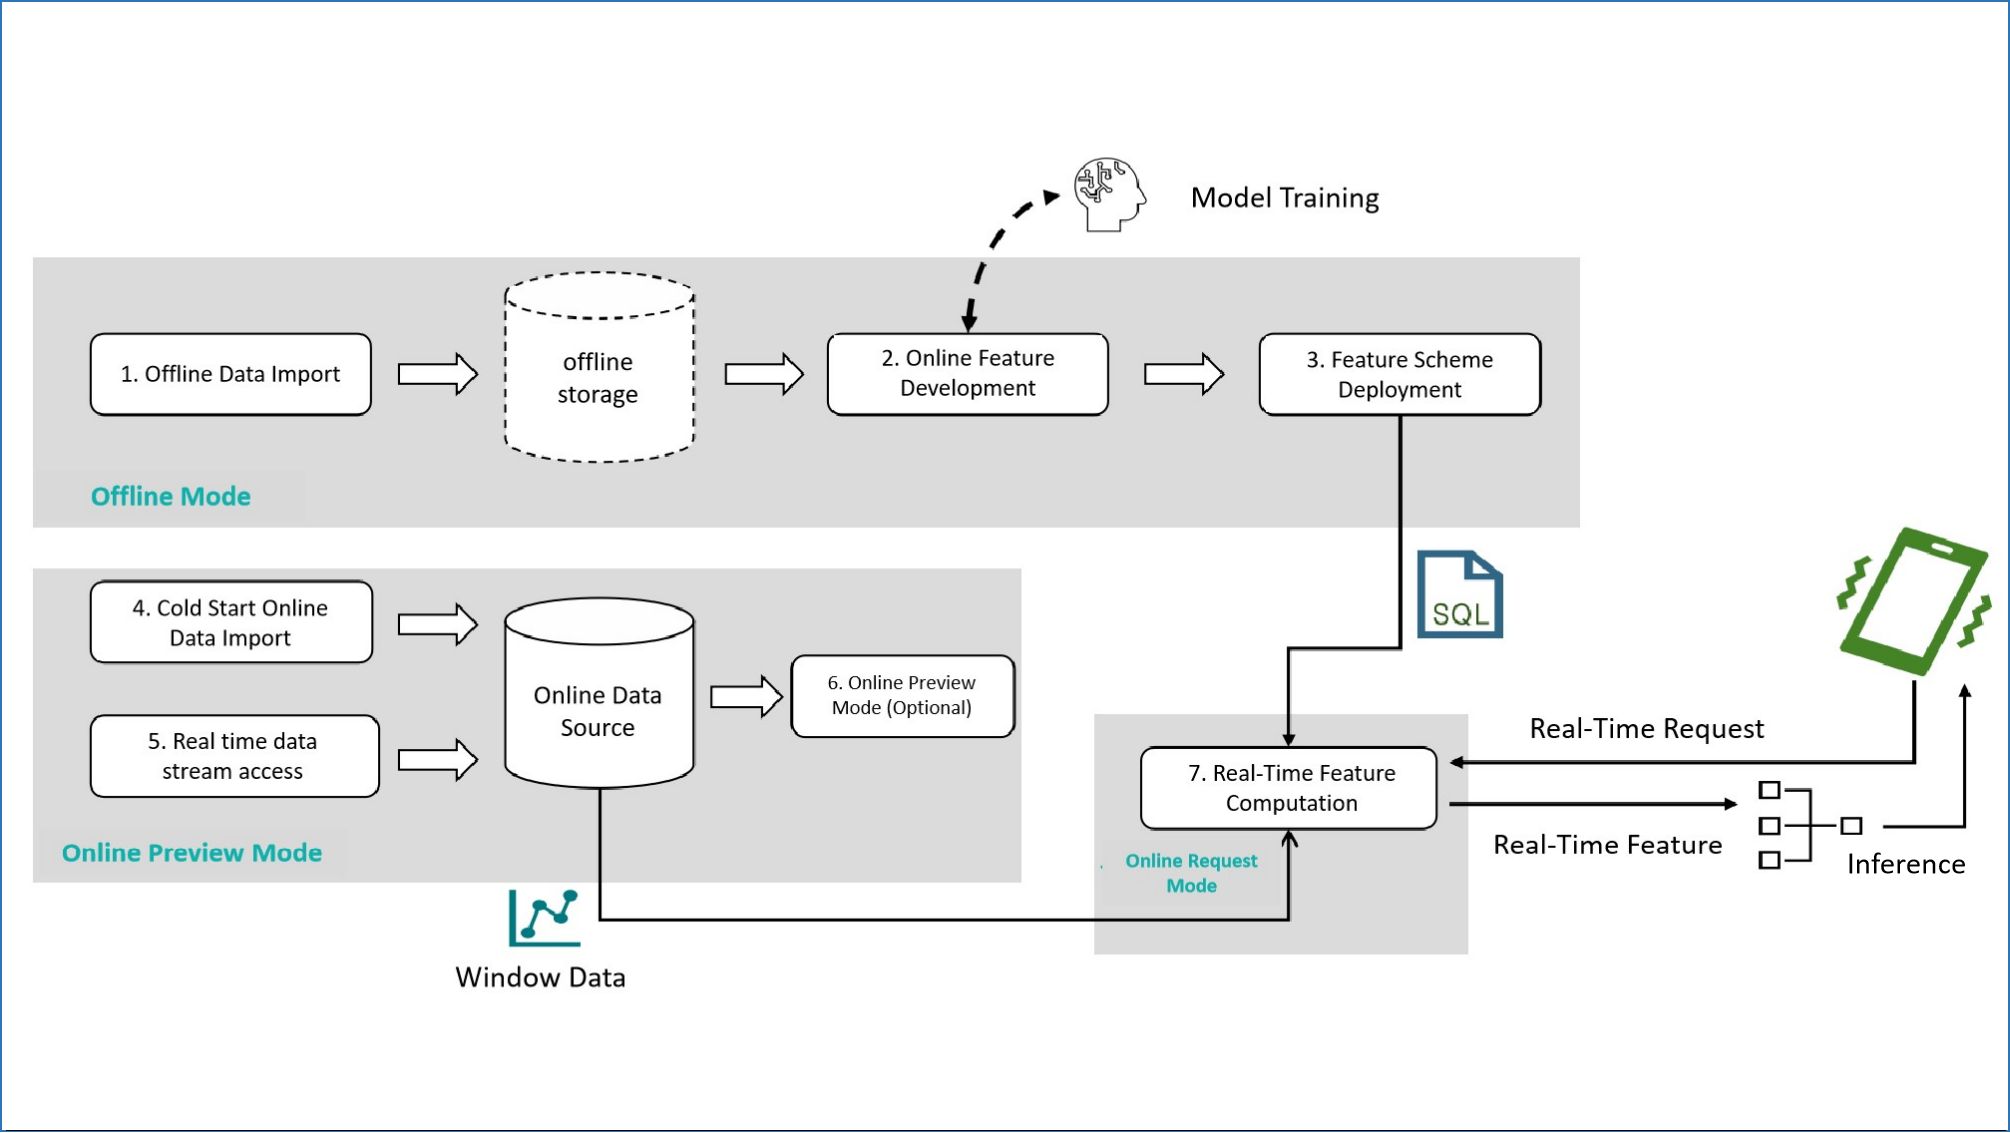
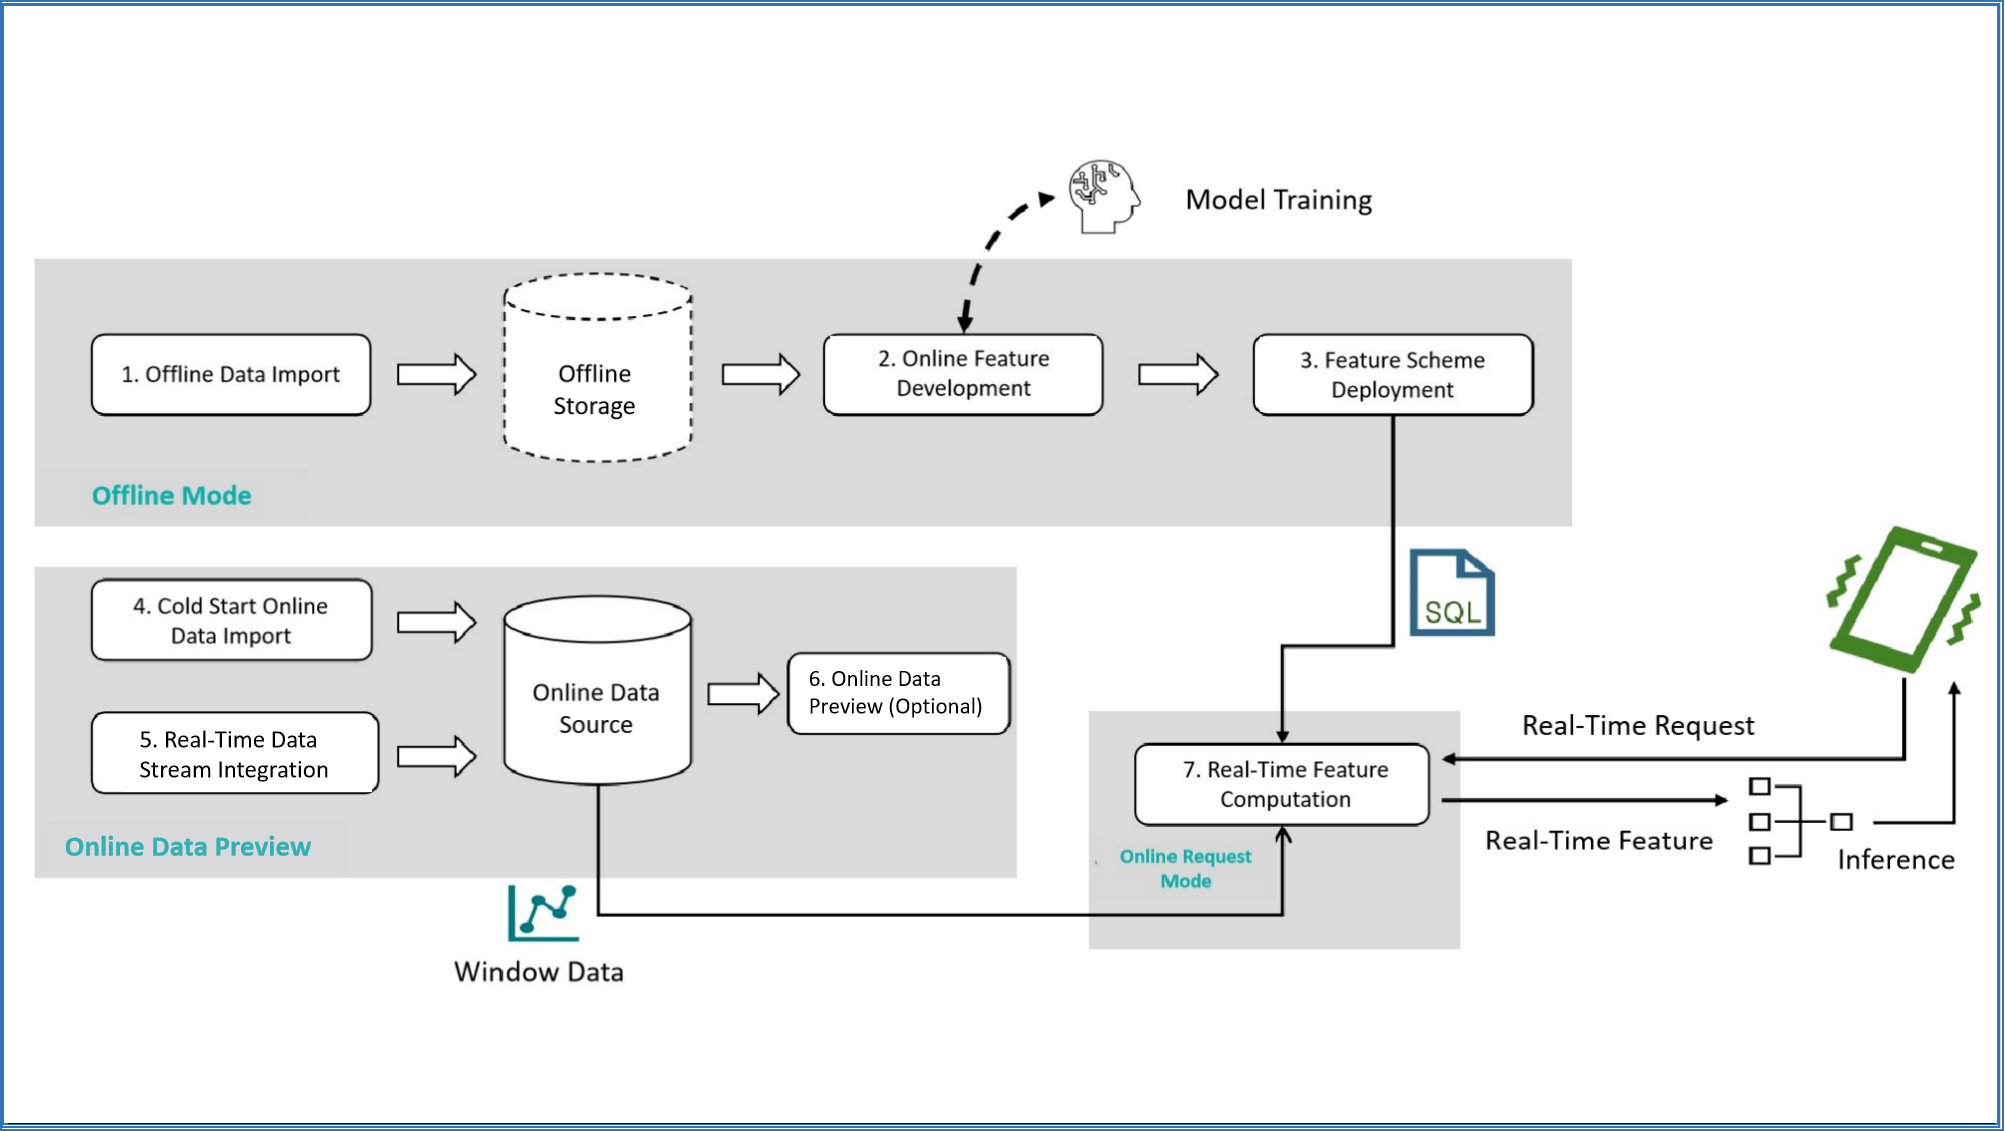
docs: update-quickstart-concepts-folder (#3536)
* Docs: Update-quickstart-concepts-folder

* Docs: update-quickstart-concepts-index-file

* Delete docs/en/quickstart/concepts/images/desktop.ini

* Update modes.md

* Delete modes-request.png

* Update modes.md

* Docs: Update-quickstart-concept-modesflow-image

* Docs: Update-quickstart-concept-modesflow-image

---------

diff --git a/docs/en/quickstart/concepts/modes.md b/docs/en/quickstart/concepts/modes.md
@@ -6,7 +6,7 @@ OpenMLDB supports different execution modes at different stages of the feature e
 
 The following diagram illustrates the typical process of using OpenMLDB for feature engineering development and deployment, as well as the execution modes used in the process:
 
-![image-20220310170024349](https://openmldb.ai/docs/zh/main/_images/modes-flow.png)
+![image-20220310170024349](images/modes-flow.png)
 
 1. Offline Data Import: Import offline data for offline feature engineering development and debugging.
 2. Offline Feature Development: Develop feature engineering scripts and debug them until satisfactory results are achieved. This step involves joint debugging of machine learning models (such as XGBoost, LightGBM, etc.), but this article mainly focuses on feature engineering development related to OpenMLDB.
@@ -16,57 +16,54 @@ The following diagram illustrates the typical process of using OpenMLDB for feat
 6. Online Data Preview (optional): Preview and check online data using supported SQL commands. This step is not mandatory.
 7. Real-time Feature Calculation: After the feature scheme is deployed and the data is correctly accessed, a real-time feature calculation service that can respond to online requests will be obtained.
 
-## Overview of execution mode
+## Overview of Execution Mode
 
-As the data objects for offline and online scenarios are different, their underlying storage and computing nodes are also different. Therefore, OpenMLDB provides several built-in execution modes to support completing the above steps. The following table summarizes the execution modes and development tools used for each step, and three execution modes will be discussed in detail later.
+As the data objects for offline and online scenarios are different, their underlying storage and computing nodes are also different. Therefore, OpenMLDB provides several built-in execution modes to support the above steps. The following table summarizes the execution modes and development tools used for each step, and three execution modes will be discussed in detail later.
 
 | Steps                          | Execution Mode      | Development Tool                                             |
 | ------------------------------ | ------------------- | ------------------------------------------------------------ |
 | 1. Offline Data Import         | Offline Mode        | OpenMLDB CLI, SDKs                                           |
-| Offline Feature Development    | Offline Mode        | OpenMLDB CLI, SDKs                                           |
-| Feature Deployment             | Offline Mode        | OpenMLDB CLI, SDKs                                           |
-| Cold Start Online Data Import  | Online Preview Mode | OpenMLDB CLI, SDKs, [Data Import Tool](https://openmldb.ai/docs/zh/main/tutorial/data_import.html) |
-| Real-time Data Integration     | Online Preview Mode | Connectors, SDKs                                             |
-| Online Data Preview (optional) | Online Preview Mode | OpenMLDB CLI, SDKs, [Data Export Tool](https://openmldb.ai/docs/zh/main/tutorial/data_export.html) |
-| Real-time Feature Calculation  | Online Request Mode | CLI (REST APIs), SDKs                                        |
+| 2. Offline Feature Development    | Offline Mode        | OpenMLDB CLI, SDKs                                           |
+| 3. Feature Deployment             | Offline Mode        | OpenMLDB CLI, SDKs                                           |
+| 4. Cold Start Online Data Import  | Online Preview Mode | OpenMLDB CLI, SDKs, [Data Import Tool](../../tutorial/data_import.md) |
+| 5. Real-time Data Integration     | Online Preview Mode | Connectors, SDKs                                             |
+| 6. Online Data Preview (optional) | Online Preview Mode | OpenMLDB CLI, SDKs, [Data Export Tool](../../tutorial/data_export.md) |
+| 7. Real-time Feature Calculation  | Online Request Mode | CLI (REST APIs), SDKs                                        |
 
 ### Offline Mode
 
-After starting OpenMLDB CLI, the **default mode is offline mode**. Offline data import, offline feature development, and feature deployment are all executed in offline mode. The purpose of offline mode is to manage and compute offline data. The computing nodes involved are supported by OpenMLDB Spark optimized for feature engineering, and the storage nodes support commonly used storage systems such as HDFS.
+After starting OpenMLDB CLI, the **default mode is offline mode**. Offline data import, offline feature development, and feature deployment are all executed in offline mode. The purpose of offline mode is to manage and compute offline data. The computing nodes involved are supported by [OpenMLDB Spark Distribution](../../tutorial/openmldbspark_distribution.md) optimized for feature engineering, and the storage nodes support commonly used storage systems such as HDFS.
 
 Offline mode has the following main features:
 
-- The offline mode supports most of the SQL syntax provided by OpenMLDB, including complex SQL syntaxes such as `LAST JOIN` and `WINDOW UNION`, which are optimized for feature engineering.
-
-- In offline mode, some SQL commands are executed asynchronously, such as `LOAD DATA`, `SELECT`, and `SELECT INTO` commands. Other SQL commands are executed synchronously.
-
+- The offline mode supports most of the SQL syntax provided by OpenMLDB, including complex SQL syntax such as `LAST JOIN` and `WINDOW UNION`.
+- In offline mode, some SQL commands are executed asynchronously, such as `LOAD DATA`, `SELECT`, and `SELECT INTO`. Other SQL commands are executed synchronously.
 - The asynchronous SQL is managed by the internal TaskManager and can be viewed and managed through commands such as `SHOW JOBS`, `SHOW JOB`, and `STOP JOB`.
 
-```{tip}
-:::
+:::{tip}
 Unlike many relational database systems, the `SELECT` command in offline mode is executed asynchronously by default. If you need to set it to synchronous execution, refer to setting the command to run synchronously in offline mode. During offline feature development, if asynchronous execution is used, it is strongly recommended to use the `SELECT INTO` statement for development and debugging, which can export the results to a file for easy viewing.
 :::
-```
 
-The `DEPLOY` command for feature deployment is also executed in offline mode. Its specification can refer to the OpenMLDB SQL online specification and requirements.
+
+The `DEPLOY` command for feature deployment is also executed in offline mode. Its specification can refer to the [OpenMLDB SQL online specification and requirements](../../openmldb_sql/deployment_manage/ONLINE_REQUEST_REQUIREMENTS.md).
 
 Offline mode setting command (OpenMLDB CLI): `SET @@execute_mode='offline'`.
 
-### Online preview mode
+### Online Preview Mode
 
 Cold start online data import, real-time data access, and online data preview are executed in online preview mode. The purpose of the online preview mode is to manage and preview online data. Storage and computation of online data are supported by the tablet component.
 
 The main features of the online preview mode are:
 
 - `LOAD DATA`, used for online data import, can be done either locally (load_mode='local') or on the cluster (load_mode='cluster'). Local import is synchronous, while cluster import is asynchronous (same as in offline mode). Other operations are synchronous.
-- Online preview mode is mainly used for previewing limited data. Selecting and viewing data directly through SELECT in OpenMLDB CLI or SDKs may result in data truncation. If the data volume is large, it is recommended to use an [export tool](https://openmldb.ai/docs/zh/main/tutorial/data_export.html) to view the complete data.
-- SELECT statements in online preview mode currently do not support more complex queries such as `LAST JOIN` and `ORDER BY`. Refer to [SELECT](https://openmldb.ai/docs/zh/main/openmldb_sql/dql/SELECT_STATEMENT.html).
+- Online preview mode is mainly used for previewing limited data. Selecting and viewing data directly through SELECT in OpenMLDB CLI or SDKs may result in data truncation. If the data volume is large, it is recommended to use an [export tool](../../tutorial/data_export.html) to view the complete data.
+- SELECT statements in online preview mode currently do not support more complex queries such as `LAST JOIN` and `ORDER BY`. Refer to [SELECT](../../openmldb_sql/dql/SELECT_STATEMENT.html).
 - The server in the online preview mode executes SQL statements on a single thread. For large data processing, it may be slow and may trigger a timeout. To increase the timeout period, the `--request_timeout` can be configured on the client.
-- To prevent impact on online services, online preview mode limits the maximum number of accessed records and the number of different keys. This can be configured using `--max_traverse_cnt` and `--max_traverse_key_cnt`. Similarly, the maximum result size can be set using `--scan_max_bytes_size`. For detailed configuration, refer to the configuration file.
+- To prevent impact on online services, online preview mode limits the maximum number of accessed records and the number of different keys. This can be configured using `--max_traverse_cnt` and `--max_traverse_key_cnt`. Similarly, the maximum result size can be set using `--scan_max_bytes_size`. For detailed configuration, refer to the [configuration file](../../deploy/conf.md).
 
 The command for setting online preview mode in OpenMLDB CLI: `SET @@execute_mode='online'`
 
-### Online request mode
+### Online Request Mode
 
 After deploying feature scripts and accessing online data, the real-time feature computing service is ready to use, and real-time feature extraction can be performed through the online request mode. REST APIs and SDKs support the online request mode. The online request mode is a unique mode in OpenMLDB that supports real-time online computing and is very different from common SQL queries in databases.
 
@@ -78,7 +75,7 @@ The online request mode requires three inputs:
 
 Based on the above inputs, for each real-time request row, the online request mode will return a feature extraction result. The computing logic is as follows: The request row is virtually inserted into the correct position of the online data table based on the logic in the SQL script (such as `PARTITION BY`, `ORDER BY`, etc.), and then only the feature aggregation computing is performed on that row, returning the unique corresponding extraction result. The following diagram intuitively explains the operation process of the online request mode.
 
-![modes-request](https://openmldb.ai/docs/zh/main/_images/modes-request.png)
+![modes-request](images/modes-request.png)
 
 Online request mode is supported in the following ways:
 

diff --git a/docs/en/quickstart/concepts/index.rst b/docs/en/quickstart/concepts/index.rst
@@ -5,4 +5,4 @@ Concept
 .. toctree::
     :maxdepth: 1
 
-    workflow
+    modes
